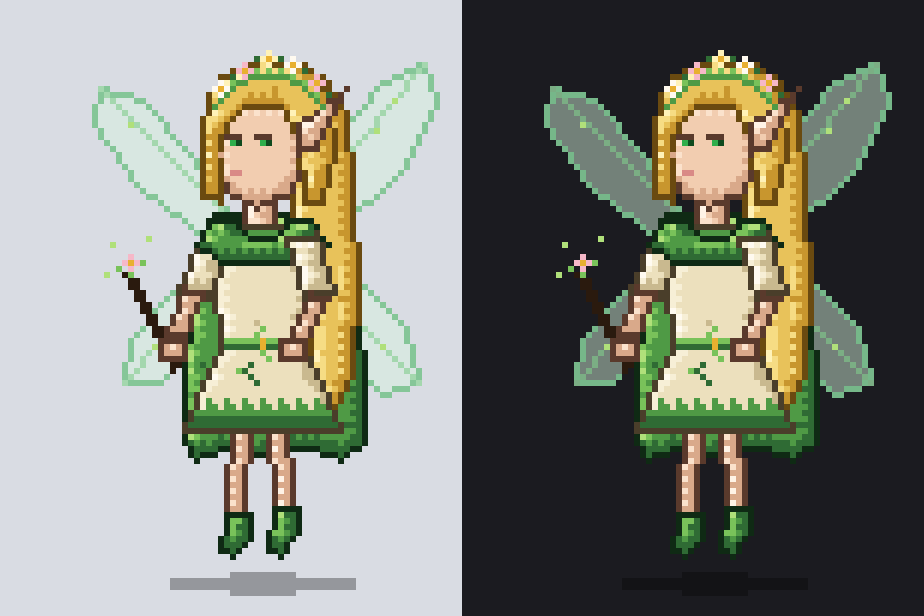
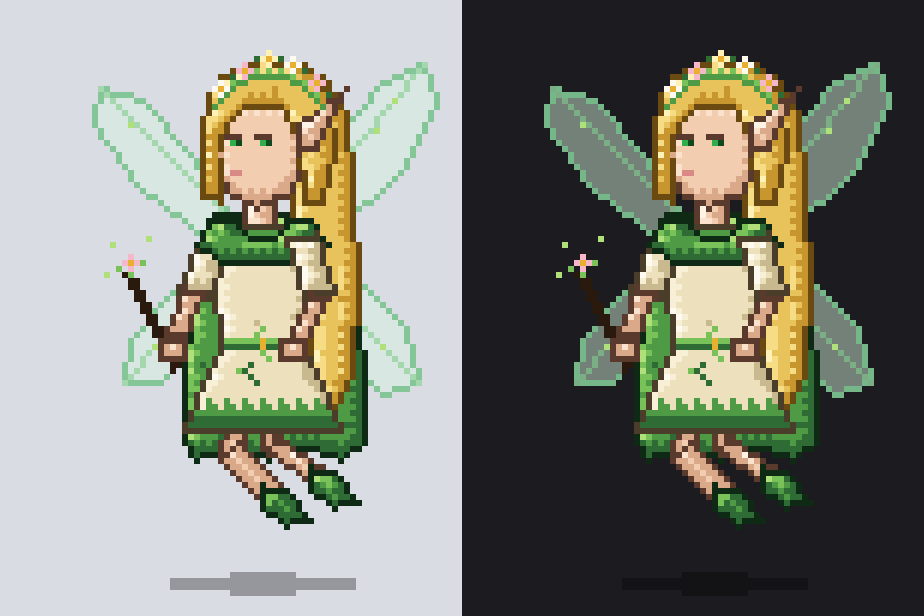
[Elf] Faelis hovers with knees bent and feet tucked back

Changed region(s): [[0.2121, 0.6786, 0.3939, 0.9253], [0.7273, 0.6786, 0.8788, 0.8945]]

diff --git a/Glitch/Elf.swift b/Glitch/Elf.swift
@@ -12,7 +12,7 @@ enum Elf {
     private static let shadow = Sprite.loadShared("elf_shadow")
     /// Click area: every part at rest, raised by the 2 px she hovers on average.
     static let hitMask: [Bool] = Sprite.coverage(
-        [set.cape, set.shinL, set.footL, set.shinR, set.footR, set.tunic, set.cloak, set.armFarUpper, set.armFarFore, set.armNearUpper, set.armNearFore,
+        [set.cape, set.thighL, set.shinL, set.footL, set.thighR, set.shinR, set.footR, set.tunic, set.cloak, set.armFarUpper, set.armFarFore, set.armNearUpper, set.armNearFore,
          set.head, wings, wand].map { ($0, CGPoint(x: 0, y: -2)) })
     static let hitBounds = Sprite.bounds(of: hitMask)
     private static let neck = CGPoint(x: 40, y: 33)
@@ -77,10 +77,10 @@ enum Elf {
         let flutter = 2.2 + 3 * pose.carriedAmount + 4 * pose.fallAmount
         put(wings, ctx, dy: breath * 0.6)
         rows(set.capeRows, ctx, amount: flutter, speed: 2 * .pi / 2.6)   // green cape and the long hair over it
-        // bare legs dangle under the short dress, swaying a pixel as she floats
+        // bare legs, knees bent and feet tucked back, under the short dress; the feet sway a pixel as she floats
         let sway = (sin(t * 2 * .pi / 3.2 + 0.8) * 0.6 * grounded).rounded()
-        put(set.shinL, ctx, dx: sway); put(set.footL, ctx, dx: sway)
-        put(set.shinR, ctx, dx: -sway); put(set.footR, ctx, dx: -sway)
+        put(set.thighL, ctx); put(set.shinL, ctx, dy: sway); put(set.footL, ctx, dy: sway)
+        put(set.thighR, ctx); put(set.shinR, ctx, dy: -sway); put(set.footR, ctx, dy: -sway)
         rows(dressRows, ctx, amount: 1.4 + flutter * 0.4, speed: 2 * .pi / 1.8)
         put(set.armFarUpper, ctx, dy: breath * 0.5)
         put(wand, ctx, dy: breath * 0.4)

diff --git a/Tools/make_elf.py b/Tools/make_elf.py
@@ -113,15 +113,17 @@ def build():
     parts = {}
     os.makedirs(OUT, exist_ok=True)
 
-    # thighs hidden under the short dress, no pauldrons, no sash
-    for n in ("thighL", "thighR", "pauldronFar", "pauldronNear", "sash"):
+    # no pauldrons, no sash
+    for n in ("pauldronFar", "pauldronNear", "sash"):
         parts[n] = combine(n)
 
-    # ------------------------------------------------------------------ legs: bare, slim, dangling as she hovers; leaf slippers
-    parts["shinL"] = combine("shinL", Layer("skin", [tl((37, 64), (36, 84), 3.4)], seed=51, grit=0.0))
-    parts["shinR"] = combine("shinR", Layer("skin", [tl((43, 64), (44, 83), 3.6)], seed=52, grit=0.0))
-    parts["footL"] = combine("footL", Layer("leaf", [[(34, 82), (38, 82), (38, 86), (35, 89), (33, 88)]], seed=53, grit=0.0))
-    parts["footR"] = combine("footR", Layer("leaf", [[(42, 81), (46, 81), (46, 85), (43, 89), (41, 88)]], seed=54, grit=0.0))
+    # ------------------------------------------------------------------ legs: knees bent, feet tucked back as she hovers; leaf slippers
+    parts["thighL"] = combine("thighL", Layer("skin", [tl((37, 64), (35, 73), 3.6)], seed=50, grit=0.0))
+    parts["shinL"] = combine("shinL", Layer("skin", [tl((35, 72), (42, 79), 3.2)], seed=51, grit=0.0))
+    parts["footL"] = combine("footL", Layer("leaf", [[(40, 77), (44, 78), (48, 83), (44, 84), (40, 81)]], seed=53, grit=0.0))
+    parts["thighR"] = combine("thighR", Layer("skin", [tl((43, 64), (42, 72), 3.8)], seed=55, grit=0.0))
+    parts["shinR"] = combine("shinR", Layer("skin", [tl((42, 71), (50, 76), 3.2)], seed=52, grit=0.0))
+    parts["footR"] = combine("footR", Layer("leaf", [[(48, 74), (52, 75), (56, 80), (52, 81), (48, 78)]], seed=54, grit=0.0))
 
     # ------------------------------------------------------------------ back layer: green cape, long blonde hair over it
     CAPE = [(32, 32), (50, 32), (55, 42), (57, 58), (57, 70), (53, 73), (47, 71), (41, 73), (35, 71), (29, 73),
@@ -260,7 +262,7 @@ def build():
 NAMES = ["cape", "thighL", "shinL", "footL", "thighR", "shinR", "footR", "sash", "tunic", "cloak", "pauldronFar",
          "pauldronNear", "armFarUpper", "armFarFore", "armNearUpper", "armNearFore", "head", "wings", "wand", "shadow"] \
     + ["eyes_" + k for k in ("open", "closed", "half", "happy", "angry", "wide")]
-VISIBLE = ["shinL", "shinR", "footL", "footR", "cape", "tunic", "cloak", "head", "armFarUpper", "armFarFore", "armNearUpper", "armNearFore", "wings", "wand",
+VISIBLE = ["thighL", "thighR", "shinL", "shinR", "footL", "footR", "cape", "tunic", "cloak", "head", "armFarUpper", "armFarFore", "armNearUpper", "armNearFore", "wings", "wand",
            "eyes_open"]
 
 
@@ -286,7 +288,7 @@ if __name__ == "__main__":
         check()
         sys.exit()
     parts = build()
-    order = ["wings", "cape", "shinL", "shinR", "footL", "footR", "tunic", "armFarUpper", "wand", "armFarFore", "cloak", "head", "armNearUpper", "armNearFore"]
+    order = ["wings", "cape", "thighL", "shinL", "footL", "thighR", "shinR", "footR", "tunic", "armFarUpper", "wand", "armFarFore", "cloak", "head", "armNearUpper", "armNearFore"]
     canvas = Image.new("RGBA", (W, H), (0, 0, 0, 0))
     canvas.alpha_composite(parts["shadow"])
     for n in order:

diff --git a/docs/superpowers/specs/2026-10-19-elf-queen-design.md b/docs/superpowers/specs/2026-10-19-elf-queen-design.md
@@ -9,7 +9,7 @@ A third character that is the opposite of Vorn's gothic mood: bright, green, cal
 - Female elf queen, long blonde hair.
 - Crown woven from flowers (a few green leaves beside them: my call).
 - Green eyes.
-- Short cream dress (to the knee) with green accents: hem, belt, short cape; bare legs and green leaf slippers, dangling as she hovers (user, 2026-10-19; hovering instead of walking: my call).
+- Short cream dress (to the knee) with green accents: hem, belt, short cape; bare legs with knees bent and feet tucked back, green leaf slippers, as she hovers (user, 2026-10-19; hovering instead of walking: my call).
 - Slim, tall, pointed ears, noble and quiet, not chubby (my call, from Wizzy's "keep it fit" feedback).
 - Fairy-like, with two pairs of sheer green-tinted wings behind her; no tall staff; a small wand with a blossom tip in her far hand (user, 2026-10-19).
 - Green is the dominant colour of the whole figure and its effects.
